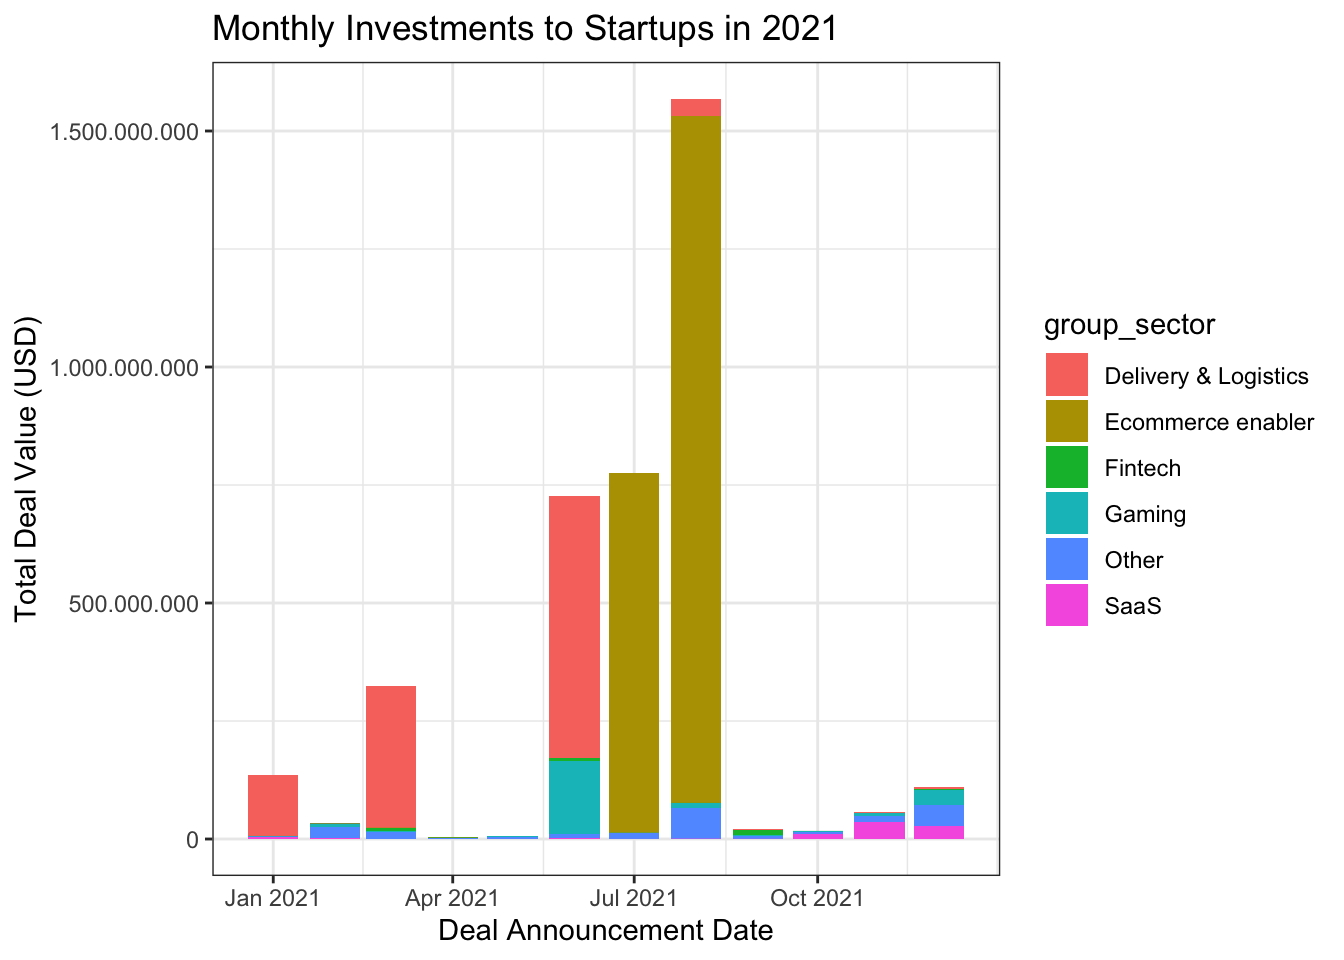
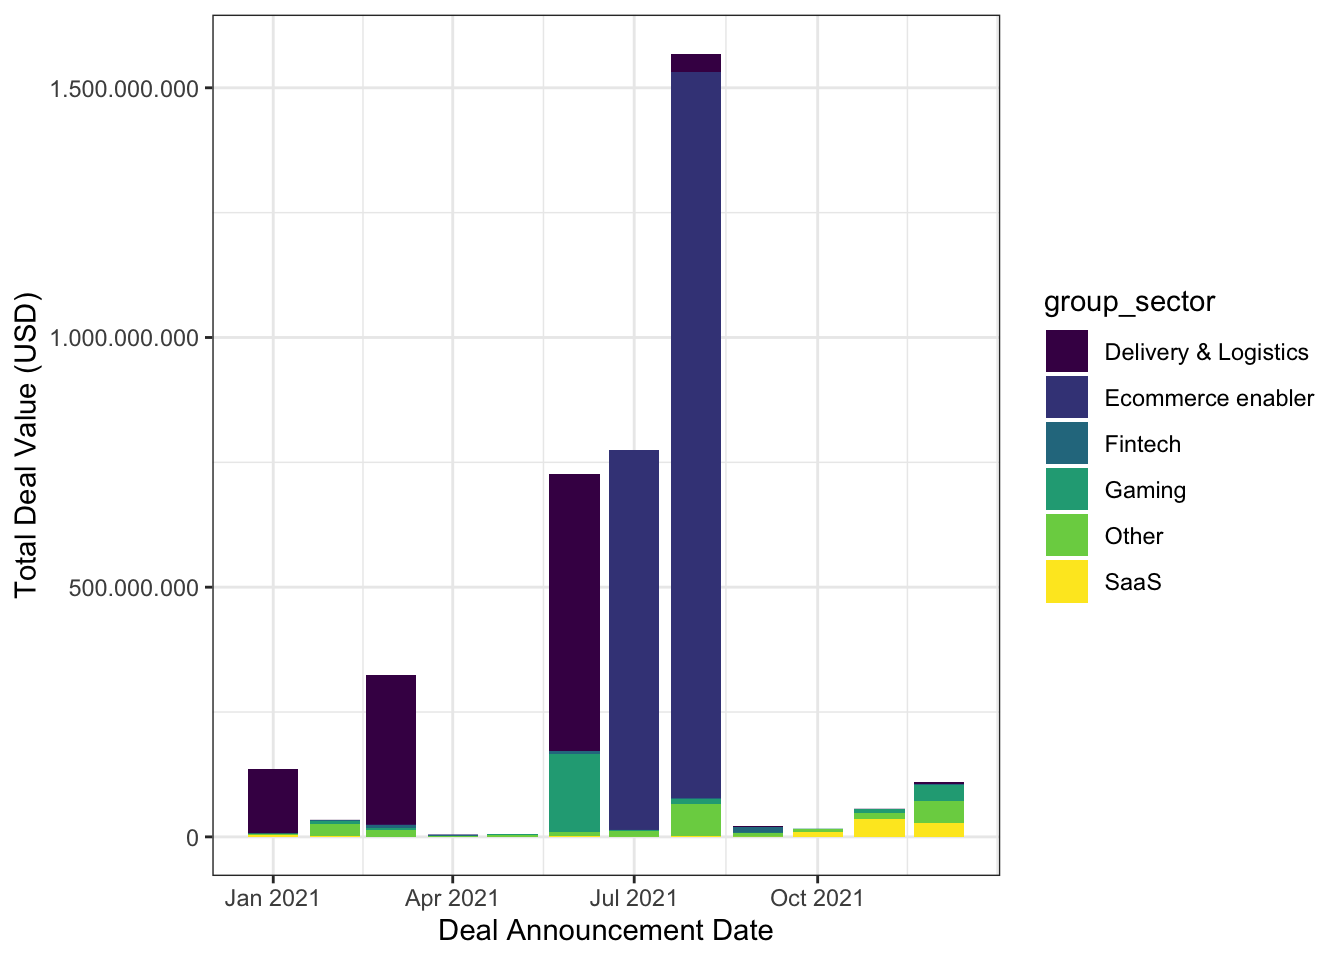
new

Changed region(s): [[0.0312, 0.0, 0.75, 0.875], [0.7812, 0.2812, 0.9688, 0.6562], [0.0, 0.3125, 0.1562, 0.6562]]

diff --git a/docs/assignment1.html b/docs/assignment1.html
@@ -241,7 +241,8 @@ code span.wa { color: #60a0b0; font-weight: bold; font-style: italic; } /* Warni
 <span id="cb1-4"><a href="#cb1-4" aria-hidden="true" tabindex="-1"></a><span class="fu">library</span>(ggplot2)</span>
 <span id="cb1-5"><a href="#cb1-5" aria-hidden="true" tabindex="-1"></a><span class="fu">library</span>(tidyr)</span>
 <span id="cb1-6"><a href="#cb1-6" aria-hidden="true" tabindex="-1"></a><span class="fu">library</span>(scales)</span>
-<span id="cb1-7"><a href="#cb1-7" aria-hidden="true" tabindex="-1"></a><span class="fu">library</span>(knitr)</span></code><button title="Copy to Clipboard" class="code-copy-button"><i class="bi"></i></button></pre></div>
+<span id="cb1-7"><a href="#cb1-7" aria-hidden="true" tabindex="-1"></a><span class="fu">library</span>(knitr)</span>
+<span id="cb1-8"><a href="#cb1-8" aria-hidden="true" tabindex="-1"></a><span class="fu">library</span>(viridis)</span></code><button title="Copy to Clipboard" class="code-copy-button"><i class="bi"></i></button></pre></div>
 </div>
 <section id="key-takeaways" class="level2" data-number="1.1">
 <h2 data-number="1.1" class="anchored" data-anchor-id="key-takeaways"><span class="header-section-number">1.1</span> Key Takeaways</h2>
@@ -352,8 +353,9 @@ code span.wa { color: #60a0b0; font-weight: bold; font-style: italic; } /* Warni
 <span id="cb6-15"><a href="#cb6-15" aria-hidden="true" tabindex="-1"></a>  <span class="fu">geom_col</span>() <span class="sc">+</span></span>
 <span id="cb6-16"><a href="#cb6-16" aria-hidden="true" tabindex="-1"></a>  <span class="fu">scale_y_continuous</span>(<span class="at">labels =</span> <span class="fu">comma_format</span>(<span class="at">big.mark =</span> <span class="st">"."</span>,</span>
 <span id="cb6-17"><a href="#cb6-17" aria-hidden="true" tabindex="-1"></a>                                           <span class="at">decimal.mark =</span> <span class="st">","</span>)) <span class="sc">+</span></span>
-<span id="cb6-18"><a href="#cb6-18" aria-hidden="true" tabindex="-1"></a>  <span class="fu">labs</span>(<span class="at">x =</span> <span class="st">"Deal Announcement Date"</span>, <span class="at">y =</span> <span class="st">"Total Deal Value (USD)"</span>, <span class="at">title =</span> <span class="st">"Monthly Investments to Startups in 2021"</span>) <span class="sc">+</span> </span>
-<span id="cb6-19"><a href="#cb6-19" aria-hidden="true" tabindex="-1"></a>  <span class="fu">theme_bw</span>()</span></code><button title="Copy to Clipboard" class="code-copy-button"><i class="bi"></i></button></pre></div>
+<span id="cb6-18"><a href="#cb6-18" aria-hidden="true" tabindex="-1"></a>  <span class="fu">labs</span>(<span class="at">x =</span> <span class="st">"Deal Announcement Date"</span>, <span class="at">y =</span> <span class="st">"Total Deal Value (USD)"</span>) <span class="sc">+</span> </span>
+<span id="cb6-19"><a href="#cb6-19" aria-hidden="true" tabindex="-1"></a>  <span class="fu">scale_fill_viridis</span>(<span class="at">discrete=</span><span class="cn">TRUE</span>) <span class="sc">+</span></span>
+<span id="cb6-20"><a href="#cb6-20" aria-hidden="true" tabindex="-1"></a>  <span class="fu">theme_bw</span>()</span></code><button title="Copy to Clipboard" class="code-copy-button"><i class="bi"></i></button></pre></div>
 <div class="cell-output cell-output-stderr">
 <pre><code>`summarise()` has grouped output by 'Announcement_Date'. You can override using
 the `.groups` argument.</code></pre>
@@ -495,7 +497,7 @@ the `.groups` argument.</code></pre>
 <span id="cb14-8"><a href="#cb14-8" aria-hidden="true" tabindex="-1"></a>  <span class="fu">coord_flip</span>() <span class="sc">+</span>  </span>
 <span id="cb14-9"><a href="#cb14-9" aria-hidden="true" tabindex="-1"></a>  <span class="fu">scale_y_continuous</span>(<span class="at">labels =</span> <span class="fu">comma_format</span>(<span class="at">big.mark =</span> <span class="st">"."</span>,</span>
 <span id="cb14-10"><a href="#cb14-10" aria-hidden="true" tabindex="-1"></a>                                           <span class="at">decimal.mark =</span> <span class="st">","</span>)) <span class="sc">+</span></span>
-<span id="cb14-11"><a href="#cb14-11" aria-hidden="true" tabindex="-1"></a>  <span class="fu">labs</span>(<span class="at">y =</span> <span class="st">"Total Value of Deals"</span>, <span class="at">title =</span> <span class="st">"Value of Startup Deals in 2021 (per Investor's Origin Country)"</span>) <span class="sc">+</span>    </span>
+<span id="cb14-11"><a href="#cb14-11" aria-hidden="true" tabindex="-1"></a>  <span class="fu">labs</span>(<span class="at">y =</span> <span class="st">"Total Value of Deals"</span>, <span class="at">title =</span> <span class="st">"Value of Startup Deals in 2021 (per Investor's Origin Country)"</span>) <span class="sc">+</span></span>
 <span id="cb14-12"><a href="#cb14-12" aria-hidden="true" tabindex="-1"></a>  <span class="fu">theme_bw</span>()</span></code><button title="Copy to Clipboard" class="code-copy-button"><i class="bi"></i></button></pre></div>
 <div class="cell-output-display">
 <p><img src="assignment1_files/figure-html/unnamed-chunk-5-1.png" class="img-fluid" width="672"></p>
@@ -505,7 +507,7 @@ the `.groups` argument.</code></pre>
 <span id="cb15-3"><a href="#cb15-3" aria-hidden="true" tabindex="-1"></a>  <span class="fu">mutate</span>(<span class="at">Country=</span><span class="fu">factor</span>(country_name, country_name)) <span class="sc">%&gt;%</span></span>
 <span id="cb15-4"><a href="#cb15-4" aria-hidden="true" tabindex="-1"></a>  <span class="fu">top_n</span>(<span class="at">n =</span> <span class="dv">10</span>, <span class="at">wt =</span> country_number) <span class="sc">%&gt;%</span> </span>
 <span id="cb15-5"><a href="#cb15-5" aria-hidden="true" tabindex="-1"></a>  <span class="fu">ggplot</span>(<span class="fu">aes</span>(<span class="at">x =</span> Country, <span class="at">y =</span> country_number)) <span class="sc">+</span></span>
-<span id="cb15-6"><a href="#cb15-6" aria-hidden="true" tabindex="-1"></a>  <span class="fu">geom_col</span>(<span class="at">fill=</span><span class="st">"#69b3a2"</span>) <span class="sc">+</span> </span>
+<span id="cb15-6"><a href="#cb15-6" aria-hidden="true" tabindex="-1"></a>  <span class="fu">geom_col</span>(<span class="at">stat=</span><span class="st">"identity"</span>, <span class="at">fill=</span><span class="st">"#69b3a2"</span>) <span class="sc">+</span> </span>
 <span id="cb15-7"><a href="#cb15-7" aria-hidden="true" tabindex="-1"></a>  <span class="fu">coord_flip</span>() <span class="sc">+</span></span>
 <span id="cb15-8"><a href="#cb15-8" aria-hidden="true" tabindex="-1"></a>  <span class="fu">labs</span>(<span class="at">y =</span> <span class="st">"Number of Deals"</span>, <span class="at">title =</span> <span class="st">"Number of Startup Deals in 2021 (per Investor's Origin Country"</span>) <span class="sc">+</span></span>
 <span id="cb15-9"><a href="#cb15-9" aria-hidden="true" tabindex="-1"></a>  <span class="fu">theme_bw</span>()</span></code><button title="Copy to Clipboard" class="code-copy-button"><i class="bi"></i></button></pre></div>
